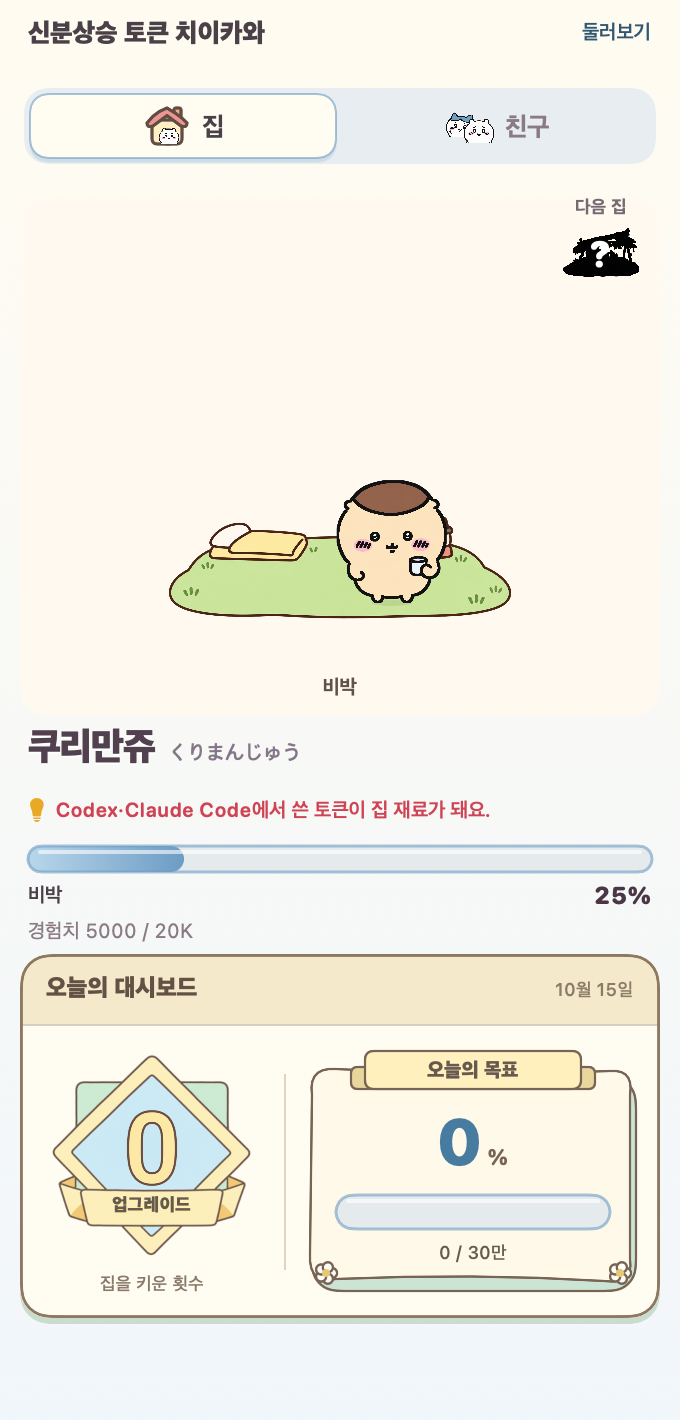
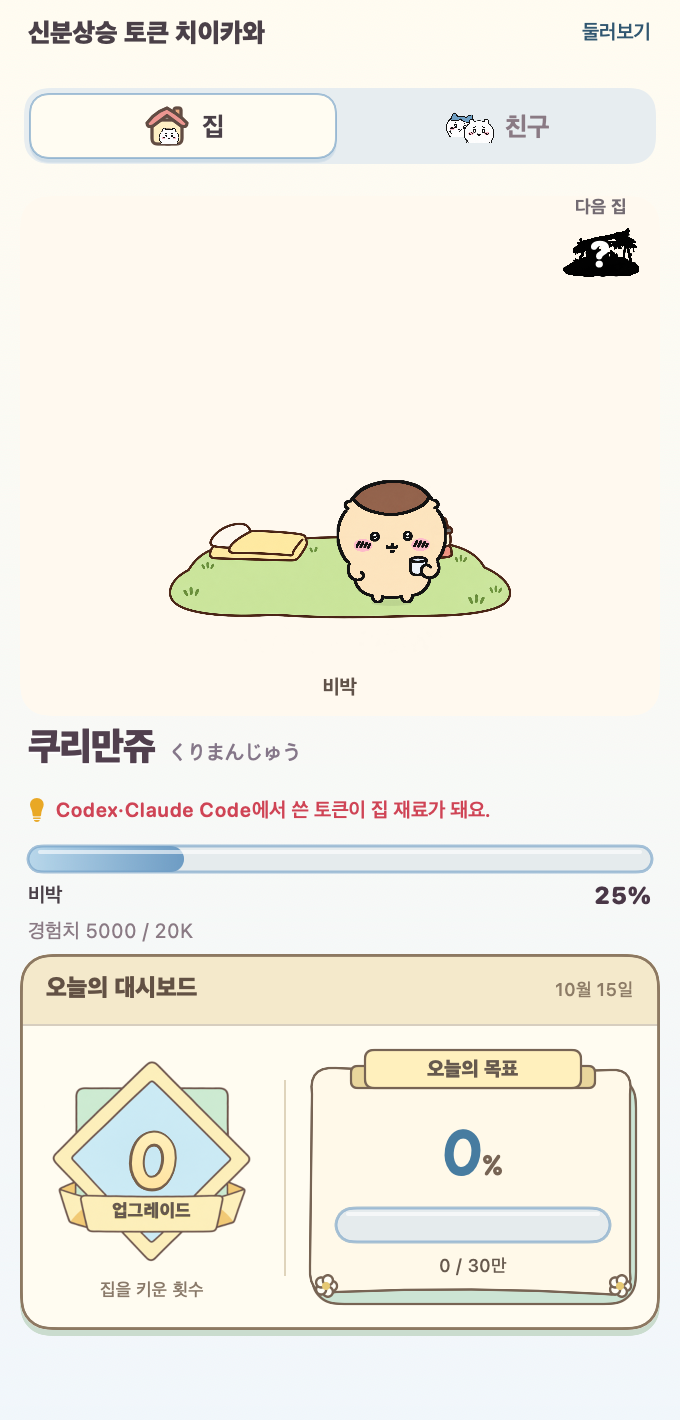
Use compact hand-lettered text for both dashboard metrics

Changed region(s): [[0.0309, 0.7437, 0.9882, 0.9606]]

diff --git a/Sources/ChiiBar/UpgradeBadge.swift b/Sources/ChiiBar/UpgradeBadge.swift
@@ -1,7 +1,7 @@
 import AppKit
 import SwiftUI
 
-/// A hand-drawn pastel reward badge, with illustrated counts and a readable ribbon label.
+/// A hand-drawn pastel reward badge; numeral artwork remains available for future use.
 struct UpgradeBadge: View {
     let count: Int
     private static let artwork: NSImage? = {
@@ -19,7 +19,9 @@ struct UpgradeBadge: View {
                     .scaledToFit()
                     .frame(width: 112, height: 108)
             }
-            IllustratedNumber(count: count)
+            StampNumber(text: max(0, count).formatted(), size: 52,
+                        colors: [Ink.rgb(0xFFF0BD), Ink.rgb(0xFFE3A0)], ink: Ink.rgb(0x77604C))
+                .frame(width: 76, height: 54)
                 .offset(y: -5)
             Text("업그레이드")
                 .font(.custom("AppleSDGothicNeo-Heavy", size: 9))
@@ -34,7 +36,7 @@ struct UpgradeBadge: View {
     }
 }
 
-/// Rounded stamp lettering with a restrained paper highlight.
+/// Compact, hand-lettered counts with a warm ink edge, rendered as live text.
 struct StampNumber: View {
     let text: String
     let size: CGFloat
@@ -42,10 +44,13 @@ struct StampNumber: View {
     let ink: Color
     var body: some View {
         Text(text)
-            .font(.system(size: size, weight: .black, design: .rounded).width(.condensed))
-            .tracking(-0.8)
+            .font(.custom("ChalkboardSE-Bold", size: size))
+            .tracking(-1.4)
             .foregroundStyle(LinearGradient(colors: colors, startPoint: .top, endPoint: .bottom))
-            .shadow(color: ink.opacity(0.7), radius: 0, y: 1)
-            .lineLimit(1)
+            .shadow(color: ink, radius: 0, x: -0.65, y: -0.65)
+            .shadow(color: ink, radius: 0, x: 0.65, y: -0.65)
+            .shadow(color: ink, radius: 0, x: -0.65, y: 0.65)
+            .shadow(color: ink, radius: 0, x: 0.65, y: 0.65)
+            .lineLimit(1).minimumScaleFactor(0.25)
     }
 }

diff --git a/Sources/ChiiBar/DailyGoalCard.swift b/Sources/ChiiBar/DailyGoalCard.swift
@@ -19,16 +19,16 @@ struct DailyGoalCard: View {
                 .font(.custom("AppleSDGothicNeo-Heavy", size: 10))
                 .frame(maxWidth: .infinity)
                 .padding(.bottom, 4)
-            HStack(alignment: .firstTextBaseline, spacing: 3) {
+            HStack(alignment: .firstTextBaseline, spacing: 1) {
                 Text(percent)
-                    .font(.system(size: 32, weight: .heavy, design: .rounded))
-                    .monospacedDigit()
+                    .font(.custom("ChalkboardSE-Bold", size: 32))
+                    .tracking(-1.2)
                     .foregroundStyle(Ink.rgb(0x477CA0))
                     .contentTransition(.numericText())
                     .animation(reduceMotion ? nil : .easeOut(duration: 0.35), value: percent)
                     .lineLimit(1).minimumScaleFactor(0.35)
                 Text("%")
-                    .font(.system(size: 11, weight: .bold, design: .rounded))
+                    .font(.custom("ChalkboardSE-Bold", size: 12))
                     .foregroundStyle(Ink.rgb(0x776454))
                     .fixedSize()
             }

diff --git a/README.md b/README.md
@@ -3,13 +3,13 @@
 Claude Code와 Codex를 쓰는 동안, 치이카와 친구가 토큰을 먹고 비박부터 초고층 빌딩 펜트하우스까지 집을 지어 가는 macOS 팬 앱입니다.
 토큰이 쌓여 게이지가 가득 차면 업그레이드 버튼을 눌러 한 단계씩 이사합니다. 남은 경험치는 새 집에서 이어 채워집니다.
 
-**v0.4.20 — 130% 커진 집과 친구, 한눈에 읽히는 오늘의 대시보드.**
+**v0.4.21 — 130% 커진 집과 친구, 한눈에 읽히는 오늘의 대시보드.**
 
 현재 집과 친구를 이전보다 130% 크게 표시합니다. 오늘의 대시보드는 제목·날짜 헤더, 업그레이드 횟수와 목표 달성률의 두 영역, 갈색 외곽선으로 묶었습니다. 업그레이드 버튼이 나타나도 하단이 잘리지 않도록 창 높이를 조정했습니다.
 
 비와 눈은 실제 날씨와 관계없는 게임 연출입니다. 20분 주기 중 비는 75초, 눈은 90초 동안 내리고 앞뒤 6초에 걸쳐 부드럽게 바뀝니다. 벽돌집부터는 비를 피하며 친구마다 눈에 폴짝거리거나 추위를 타는 반응이 다릅니다. 표정은 기존 검토된 그림을 사용합니다. 원작의 특정 장면을 재현했다는 뜻은 아닙니다. 햇볕 효과는 없고, 움직임 줄이기 설정에서는 눈·비와 반응 동작이 정지합니다.
 
-업그레이드 배지에는 반듯한 그림 숫자를 사용합니다. 오늘의 목표는 파란색의 굵은 일반 숫자와 더 두꺼운 게이지로 표시하며, 천 단위 쉼표를 유지합니다.
+대시보드의 업그레이드 횟수와 달성률은 손글씨 느낌의 실제 텍스트로 표시합니다. 횟수는 크림색과 갈색 테두리, 달성률은 파란색으로 구분하고 자간을 좁혔습니다. 천 단위 쉼표를 유지하며 기존 숫자 이미지 0~30은 삭제하지 않고 보관합니다.
 별도 가입이나 API 키 없이, Mac에 남는 Codex·Claude Code 사용 기록으로 자랍니다. 앱 자체는 무료이며 AI 서비스 이용료는 별도입니다.
 
 **[최신 버전 다운로드](https://github.com/kitesik/ChiiBar/releases/latest)**
@@ -33,7 +33,7 @@ brew install --cask kitesik/tap/chiibar
 
 macOS 14 Sonoma 이상이 필요합니다. 배포 파일은 Apple Silicon과 Intel Mac 공용입니다.
 
-1. 위 링크에서 `ChiiBar-0.4.20-universal.zip`을 다운로드합니다.
+1. 위 링크에서 `ChiiBar-0.4.21-universal.zip`을 다운로드합니다.
 2. 압축을 풀고 `ChiiBar.app`을 응용 프로그램 폴더로 옮깁니다.
 3. 앱을 실행하고 화면 상단 메뉴 막대의 작은 캐릭터 아이콘을 누릅니다.
 4. 첫 화면에서 **첫 친구 뽑기**를 누르세요. 무료 뽑기권 1장으로 전체 9명 중 한 친구를 만납니다.

diff --git a/Art/StampNumbers/README.md b/Art/StampNumbers/README.md
@@ -20,3 +20,7 @@ Production numeral PNGs for the daily upgrade stamp, created with the built-in i
 ## Upright numerals (0.4.17)
 
 All 31 numeral images were regenerated with the built-in image_gen tool. Upright strokes, softly rounded corners, pale butter yellow fill and a warm brown outline replace the curled, extruded lettering. Each saved PNG is an unchanged generated original. The previous assets remain in Git history. See `upright-prompts.json` for provenance and the shared prompt.
+
+## Preserved artwork (0.4.21)
+
+The daily dashboard now renders both metrics as live Chalkboard SE text. All numeral PNGs, prompts and the IllustratedNumber renderer remain intact for possible later reuse. The pastel badge background is still used.
